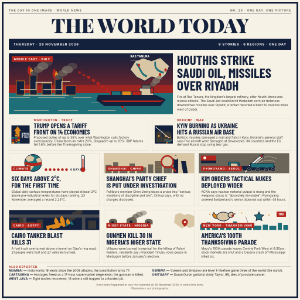
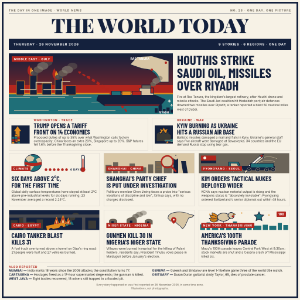
Correct hero geography and simplify five news illustrations
- Remove tariff icon text and refine the tanker stripe, Gulf map, Riyadh and horizon.
Redraw Egypt, Nigeria, Thanksgiving and Ukraine with clearer silhouettes.
- Preserve layout, typography and all non-SVG copy.

diff --git a/src/entry.html b/src/entry.html
@@ -66,18 +66,16 @@ svg text{font-family:Inter,Arial,sans-serif}
           <marker id="missileArrow" viewBox="0 0 10 10" refX="8" refY="5" markerWidth="10" markerHeight="10" orient="auto" markerUnits="userSpaceOnUse"><path d="M0 0 10 5 0 10Z" fill="#B3261E"/></marker>
         </defs>
         <rect width="560" height="208" fill="url(#gulfSky)"/>
-        <rect y="108" width="560" height="32" fill="#B3261E" opacity=".72"/>
-        <rect y="136" width="560" height="72" fill="#1F6F78"/>
+        <rect y="108" width="560" height="27" fill="#B3261E"/>
+        <rect y="135" width="560" height="5" fill="#E08A1E"/>
+        <rect y="140" width="560" height="68" fill="#1F6F78"/>
         <g stroke="#D8C6A5" stroke-width="1.5" opacity=".8"><path d="M0 151h72m28 0h92m28 0h62"/><path d="M282 169h84m32 0h74"/><path d="M18 195h118m32 0h68m34 0h94"/></g>
         <g fill="none" stroke="#B3261E" stroke-width="5" stroke-dasharray="11 8" marker-end="url(#missileArrow)"><path d="M402 199C365 143 321 105 267 79"/><path d="M390 187C350 132 302 101 238 63"/></g>
         <g transform="translate(410 4)">
-          <g transform="scale(1.06 1.35)">
-            <path d="M4 38 20 17 46 9 73 16 101 8 130 29 118 51 100 64 74 56 51 67 25 57Z" fill="#D8C6A5" stroke="#14213D" stroke-width="1.5"/>
-            <path d="M24 23c16 14 13 27 34 32m27-37c-4 17 8 24 27 28" fill="none" stroke="#1F6F78" stroke-width="5"/>
-            <g fill="#B3261E"><circle cx="32" cy="27" r="4"/><circle cx="100" cy="51" r="4"/><circle cx="118" cy="39" r="4"/></g>
-            <path d="m31 23-9-9H5" fill="none" stroke="#F7F2E6" stroke-width="1.2"/>
-          </g>
-          <text x="5" y="10" fill="white" font-size="10" font-weight="700">RAS TANURA</text>
+          <path d="M4 34 28 8 78 5 136 22V94H108L96 72 72 52 42 47Z" fill="#D8C6A5" stroke="#14213D" stroke-width="1.5"/>
+          <path d="M136 94h-28c-2-19-12-34-30-44l-6 2c20 12 29 27 31 42Z" fill="#1F6F78"/>
+          <g fill="#B3261E"><circle cx="78" cy="52" r="4"/><circle cx="126" cy="28" r="4"/></g>
+          <text x="5" y="18" fill="white" font-size="10" font-weight="700">RAS TANURA</text>
         </g>
         <g fill="#14213D" stroke="#E08A1E" stroke-width="1.4">
           <rect x="26" y="94" width="27" height="48"/><rect x="72" y="72" width="24" height="70"/><rect x="114" y="102" width="31" height="40"/><rect x="158" y="85" width="25" height="57"/><rect x="195" y="111" width="34" height="31"/>
@@ -97,13 +95,16 @@ svg text{font-family:Inter,Arial,sans-serif}
         </g>
         <g stroke="#14213D" stroke-width="2" stroke-linejoin="round">
           <path d="M306 143h194l34 15-17 21H327l-27-19Z" fill="#14213D"/>
-          <path d="M310 160h207l17-2-17 9H324Z" fill="#B3261E"/>
+          <path d="M327 176.5H517" fill="none" stroke="#B3261E" stroke-width="3"/>
           <path d="M446 119h48v24h-48Z" fill="#D8C6A5"/>
           <path d="M454 108h31v11h-31Z" fill="#6B6459"/>
           <rect x="351" y="129" width="31" height="14" fill="#1F6F78"/><rect x="386" y="129" width="31" height="14" fill="#E08A1E"/><rect x="421" y="129" width="31" height="14" fill="#B3261E"/>
           <path d="M484 118h10v18h-10Z" fill="#B3261E"/>
         </g>
         <g><ellipse cx="493" cy="105" rx="10" ry="8" fill="#6B6459" opacity=".9"/><ellipse cx="503" cy="94" rx="13" ry="10" fill="#8A8578" opacity=".72"/><ellipse cx="514" cy="85" rx="11" ry="8" fill="#6B6459" opacity=".5"/></g>
+        <g fill="#14213D"><rect x="498" y="187" width="10" height="16"/><rect x="511" y="181" width="12" height="22"/><rect x="526" y="190" width="9" height="13"/><rect x="538" y="185" width="11" height="19"/><rect x="552" y="192" width="8" height="11"/><path d="M511 181c0-8 12-8 12 0Z"/></g>
+        <g fill="none" stroke="#F7F2E6" stroke-width="1.4"><path d="M548 157v12m-6-6h12m-9-3 6 6m0-6-6 6"/><path d="M556 172v10m-5-5h10m-7-3 4 4m0-4-4 4"/></g>
+        <text x="512" y="205" fill="white" font-size="9" font-weight="700">RIYADH</text>
       </svg>
       <div class="chip">MIDDLE EAST · GULF</div>
     </div>
@@ -116,7 +117,7 @@ svg text{font-family:Inter,Arial,sans-serif}
   <section class="mini-row" aria-label="Trade and Ukraine">
     <article class="mini-card">
       <div class="mini-icon">
-        <svg viewBox="0 0 124 62" preserveAspectRatio="none" role="img" aria-label="Three container stacks behind a rising tariff arrow and UP TO 35%">
+        <svg viewBox="0 0 124 62" preserveAspectRatio="none" role="img" aria-label="Three container stacks behind a rising tariff arrow">
           <rect width="124" height="62" fill="#14213D"/>
           <path d="M28 57V20H17L42 3 67 20H56V57Z" fill="#E08A1E"/>
           <g stroke="#14213D" stroke-width="1">
@@ -124,7 +125,6 @@ svg text{font-family:Inter,Arial,sans-serif}
             <rect x="22" y="31" width="17" height="7" fill="#E08A1E"/><rect x="22" y="39" width="17" height="7" fill="#1F6F78"/><rect x="22" y="47" width="17" height="7" fill="#B3261E"/>
             <rect x="41" y="39" width="17" height="7" fill="#B3261E"/><rect x="41" y="47" width="17" height="7" fill="#E08A1E"/><rect x="41" y="55" width="17" height="7" fill="#1F6F78"/>
           </g>
-          <text x="69" y="43" textLength="53" lengthAdjust="spacingAndGlyphs" fill="white" font-family="Barlow" font-size="26" font-weight="700">UP TO 35%</text>
         </svg>
       </div>
       <div class="mini-copy">
@@ -135,14 +135,13 @@ svg text{font-family:Inter,Arial,sans-serif}
     </article>
     <article class="mini-card">
       <div class="mini-icon">
-        <svg viewBox="0 0 62 62" role="img" aria-label="Damaged apartment block, missile trail and burning aircraft">
+        <svg viewBox="0 0 62 62" role="img" aria-label="Broken building silhouetted by an amber flash and a small aircraft with a flame">
           <rect width="62" height="62" fill="#14213D"/>
-          <path d="M5 26 13 18 21 24 29 13 38 23 45 18 57 27v29H5Z" fill="#3B3A36"/>
-          <path d="m29 13 3 13-7 5 5 10" fill="none" stroke="#14213D" stroke-width="3"/>
-          <rect x="12" y="33" width="5" height="6" fill="#E08A1E"/><rect x="36" y="34" width="5" height="6" fill="#E08A1E"/>
-          <path d="M3 5 48 42" stroke="#F7F2E6" stroke-width="2"/>
-          <path d="m48 42 8-4-2 9Z" fill="#E08A1E"/>
-          <path d="M37 53h20l-4 4H39Z" fill="#1F6F78"/><path d="m33 50 13-3 15 3-11 3-9-1-6 2Z" fill="#3B3A36" stroke="#D8C6A5" stroke-width=".8"/><path d="m46 47 8-6 4 2-5 6Z" fill="#3B3A36"/><path d="M42 56c-3 3-4 5-2 6 3 0 4-3 5-6Z" fill="#E08A1E"/><path d="M44 57c-1 2-1 3 0 4 2-1 2-2 2-4Z" fill="#B3261E"/>
+          <path d="m31 7 4 9 9-4-4 9 9 4-9 4 4 9-9-4-4 9-4-9-9 4 4-9-9-4 9-4-4-9 9 4Z" fill="#E08A1E"/>
+          <path d="M6 55V28l8-5 7 7 8-13 7 10 8-4 9 8 3-1v25Z" fill="#3B3A36" stroke="#14213D" stroke-width="2" stroke-linejoin="round"/>
+          <path d="M34 50h18l7-4 6 1-4 5 5 3-8 1-5-2H35Z" fill="#1F6F78" stroke="#D8C6A5" stroke-width=".8"/>
+          <path d="m45 48 5-7 3 1-3 7Z" fill="#3B3A36"/>
+          <path d="M43 55c-3 3-4 5-2 6 3 0 4-3 5-6Z" fill="#E08A1E"/><path d="M45 56c-1 2-1 3 0 4 2-1 2-2 2-4Z" fill="#B3261E"/>
         </svg>
       </div>
       <div class="mini-copy">
@@ -220,13 +219,14 @@ svg text{font-family:Inter,Arial,sans-serif}
         <svg viewBox="0 0 308 68" role="img" aria-label="Tipped fuel tanker with three flames and smoke beneath a concrete overpass">
           <rect width="308" height="68" fill="#14213D"/>
           <g fill="#3B3A36"><rect x="5" y="35" width="24" height="29"/><rect x="34" y="27" width="19" height="37"/><rect x="59" y="40" width="29" height="24"/><rect x="94" y="32" width="21" height="32"/><rect x="270" y="36" width="27" height="28"/></g>
-          <g fill="#3B3A36"><ellipse cx="207" cy="34" rx="9" ry="7"/><ellipse cx="216" cy="25" rx="12" ry="9"/><ellipse cx="227" cy="15" rx="14" ry="10"/><ellipse cx="239" cy="7" rx="12" ry="8"/></g>
+          <g fill="#3B3A36"><ellipse cx="207" cy="38" rx="8" ry="6"/><ellipse cx="216" cy="28" rx="10" ry="7"/><ellipse cx="227" cy="17" rx="12" ry="8"/></g>
           <rect y="15" width="308" height="11" fill="#4A4A4F"/><rect x="48" y="26" width="11" height="42" fill="#4A4A4F"/><rect x="249" y="26" width="11" height="42" fill="#4A4A4F"/>
           <g transform="rotate(-12 171 53)" stroke="#14213D" stroke-width="2" stroke-linejoin="round">
             <path d="M126 44h67v17h-67Z" fill="#E08A1E"/><path d="M193 47h24l5 14h-29Z" fill="#1F6F78"/>
             <circle cx="141" cy="62" r="6" fill="#14213D"/><circle cx="177" cy="62" r="6" fill="#14213D"/><circle cx="207" cy="62" r="6" fill="#14213D"/>
           </g>
-          <g fill="#E08A1E"><path d="M158 47c-8-9-3-17 2-23 3 8 10 12 9 19 0 5-6 7-11 4Z"/><path d="M178 45c-9-11-3-20 2-27 4 9 11 14 10 22 0 6-7 8-12 5Z"/><path d="M198 48c-7-8-2-15 2-20 3 7 9 10 8 16 0 5-6 7-10 4Z"/></g>
+          <g fill="#B3261E" stroke="#E08A1E" stroke-width="2" stroke-linejoin="round"><path d="M154 48 162 24 170 48Z"/><path d="M174 46 184 18 194 46Z"/><path d="M194 48 202 27 210 48Z"/></g>
+          <g fill="#F4C77B"><path d="M159 46 162 33 165 46Z"/><path d="M179 44 184 29 189 44Z"/><path d="M198 46 202 35 206 46Z"/></g>
         </svg>
         <div class="chip bottom">CAIRO · EGYPT</div>
       </div>
@@ -237,8 +237,8 @@ svg text{font-family:Inter,Arial,sans-serif}
       <div class="card-art">
         <svg viewBox="0 0 308 68" role="img" aria-label="Three Nigerian huts with smoke and a cropped sand Africa silhouette with one red pin">
           <rect width="308" height="68" fill="#F7F2E6"/>
-          <path d="M244 15 260 10 274 17 286 13 308 20V55l-17 6-12-7-12 8-15-9-13-11Z" fill="#D8C6A5"/>
-          <path d="M276 31c-6 0-10 4-10 10 0 8 10 16 10 16s10-8 10-16c0-6-4-10-10-10Z" fill="#B3261E"/><circle cx="276" cy="41" r="3.5" fill="#F7F2E6"/>
+          <path d="M228 12c19-8 47-7 63 2l16 4-7 7-11 2-6 13-7 15-8 9-8-9-9-7-9-9-16-2-8-9 2-9Z" fill="#D8C6A5" stroke="#14213D" stroke-width="1.5"/>
+          <path d="M238 24c-5 0-9 4-9 9 0 7 9 14 9 14s9-7 9-14c0-5-4-9-9-9Z" fill="#B3261E"/><circle cx="238" cy="33" r="3" fill="#F7F2E6"/>
           <g fill="#6B6459"><path d="M17 49V38c0-11 28-11 28 0v11Z"/><path d="M77 51V35c0-13 35-13 35 0v16Z"/><path d="M139 49V38c0-10 27-10 27 0v11Z"/></g>
           <g fill="#14213D"><path d="M25 49V38h8v11Z"/><path d="M88 51V36h9v15Z"/><path d="M147 49V39h8v10Z"/></g>
           <g fill="#6B6459"><ellipse cx="98" cy="28" rx="8" ry="6" opacity=".9"/><ellipse cx="108" cy="21" rx="11" ry="8" opacity=".75"/><ellipse cx="120" cy="15" rx="13" ry="9" opacity=".6"/><ellipse cx="134" cy="10" rx="12" ry="8" opacity=".45"/></g>
@@ -253,11 +253,11 @@ svg text{font-family:Inter,Arial,sans-serif}
         <svg viewBox="0 0 308 68" role="img" aria-label="Lower Manhattan skyline beneath a turkey bird balloon and star balloon">
           <rect width="308" height="68" fill="#F7F2E6"/>
           <g fill="#1F6F78"><rect x="4" y="49" width="17" height="19"/><rect x="26" y="42" width="13" height="26"/><rect x="44" y="52" width="22" height="16"/><rect x="71" y="46" width="16" height="22"/><rect x="92" y="53" width="19" height="15"/><rect x="116" y="39" width="14" height="29"/><rect x="135" y="52" width="25" height="16"/><rect x="165" y="48" width="15" height="20"/><rect x="185" y="53" width="28" height="15"/><rect x="218" y="50" width="17" height="18"/><rect x="240" y="54" width="24" height="14"/><rect x="269" y="44" width="14" height="24"/><rect x="288" y="51" width="16" height="17"/></g>
-          <g stroke="#14213D" stroke-width="1"><path d="M87 31 82 67m77-45 18 45"/></g>
-          <path d="M65 30C46 28 43 15 51 8c3 9 11 8 15 11-4 3-3 7-1 11Z" fill="#E08A1E" stroke="#14213D" stroke-width="2"/>
-          <ellipse cx="83" cy="22" rx="22" ry="15" fill="#D8C6A5" stroke="#14213D" stroke-width="2"/>
-          <path d="M99 20c1-8 5-13 11-13 5 0 8 4 8 9 0 6-5 10-11 10Z" fill="#D8C6A5" stroke="#14213D" stroke-width="2"/>
-          <path d="m115 10 10 3-10 4Z" fill="#E08A1E" stroke="#14213D" stroke-width="1"/><path d="M113 17c4 0 6 3 5 7-4 0-7-2-8-5Z" fill="#B3261E"/>
+          <path d="M84 37 84 67" fill="none" stroke="#14213D" stroke-width="1"/>
+          <g fill="#E08A1E" stroke="#14213D" stroke-width="1.5" stroke-linejoin="round"><path d="M65 27C50 27 43 19 45 9c11 2 18 8 22 15Z"/><path d="M63 30C48 33 39 27 37 17c12 0 21 4 28 10Z"/><path d="M62 34C48 40 39 36 35 28c12-2 22 0 29 4Z"/><path d="M64 37C51 44 43 41 38 34c11-2 21 0 28 3Z"/></g>
+          <ellipse cx="84" cy="24" rx="21" ry="14" fill="#D8C6A5" stroke="#14213D" stroke-width="2"/>
+          <path d="M99 21c0-8 5-13 11-13s10 5 10 12c0 6-6 10-12 10Z" fill="#D8C6A5" stroke="#14213D" stroke-width="2"/>
+          <path d="m117 11 9 3-9 4Z" fill="#E08A1E" stroke="#14213D" stroke-width="1"/><path d="M114 18c4 0 6 3 5 7-4 0-7-2-8-5Z" fill="#B3261E"/>
           <path d="m205 6 5 10 11 1-8 8 2 11-10-5-10 5 2-11-8-8 11-1Z" fill="#1F6F78" stroke="#14213D" stroke-width="2"/>
           <g fill="#E08A1E"><circle cx="37" cy="14" r="2"/><circle cx="146" cy="10" r="2"/><circle cx="239" cy="17" r="2"/></g>
           <rect x="265" y="5" width="32" height="18" rx="2" fill="#B3261E"/><text x="281" y="18" text-anchor="middle" fill="white" font-size="11" font-weight="700">100</text>
